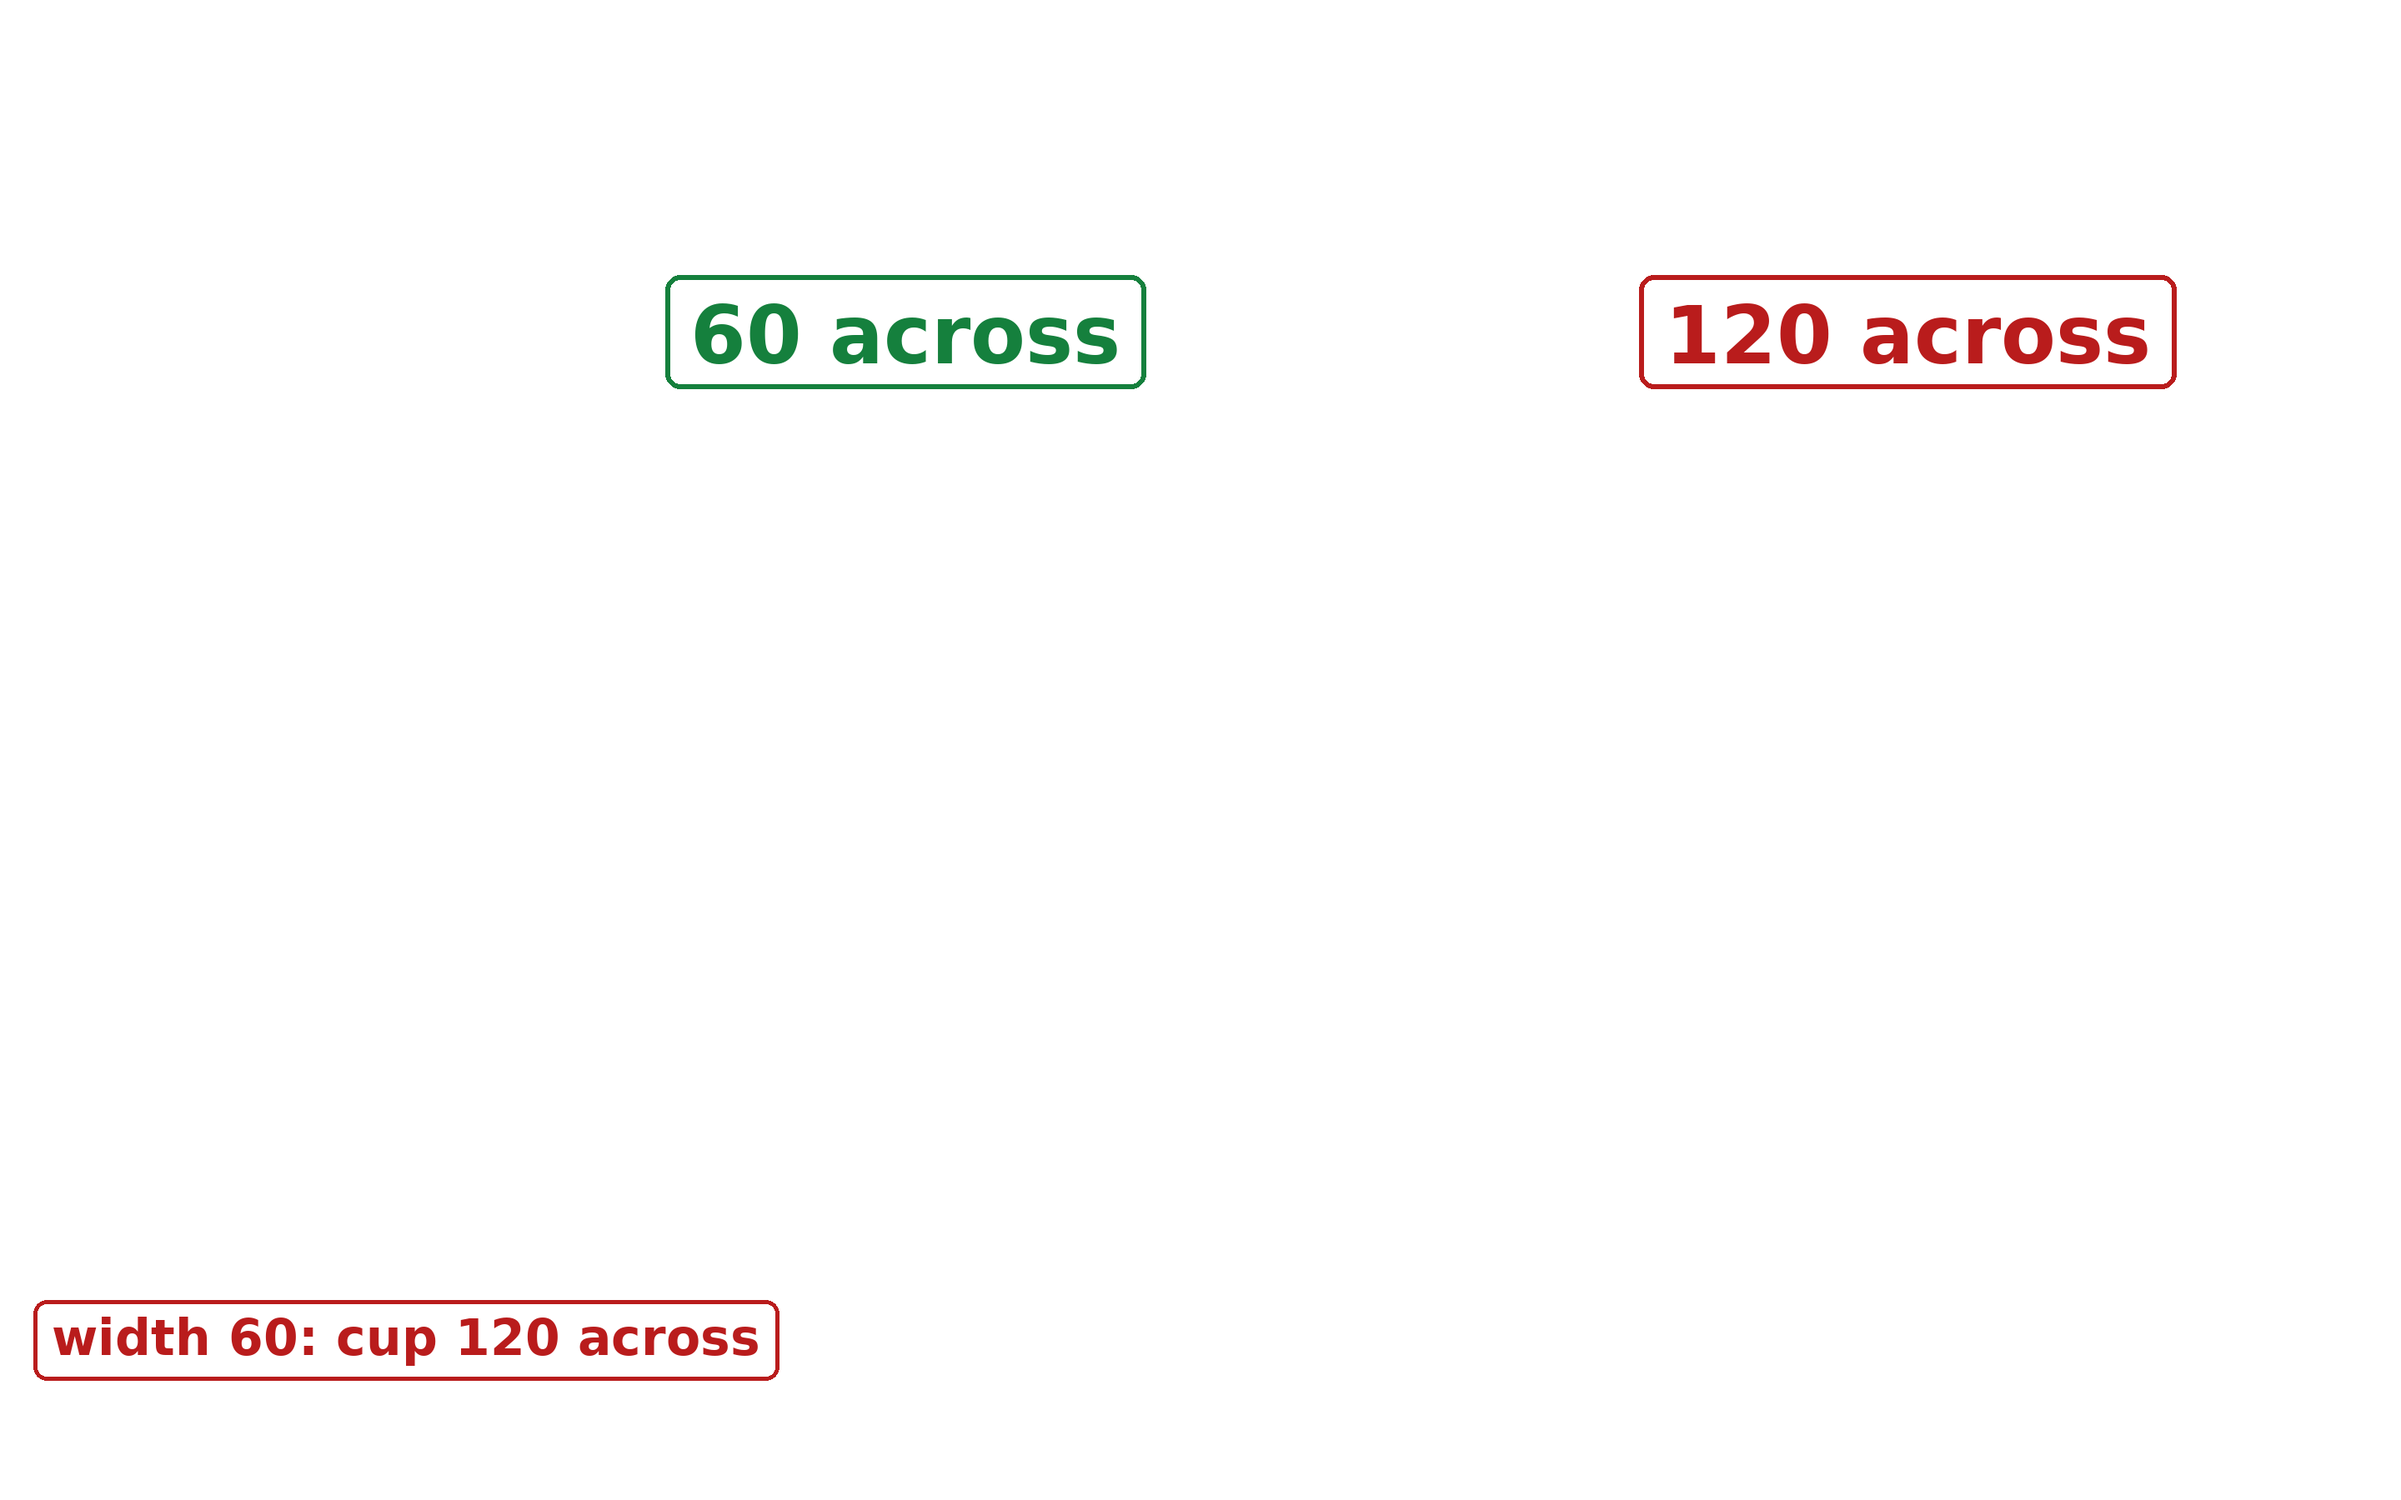
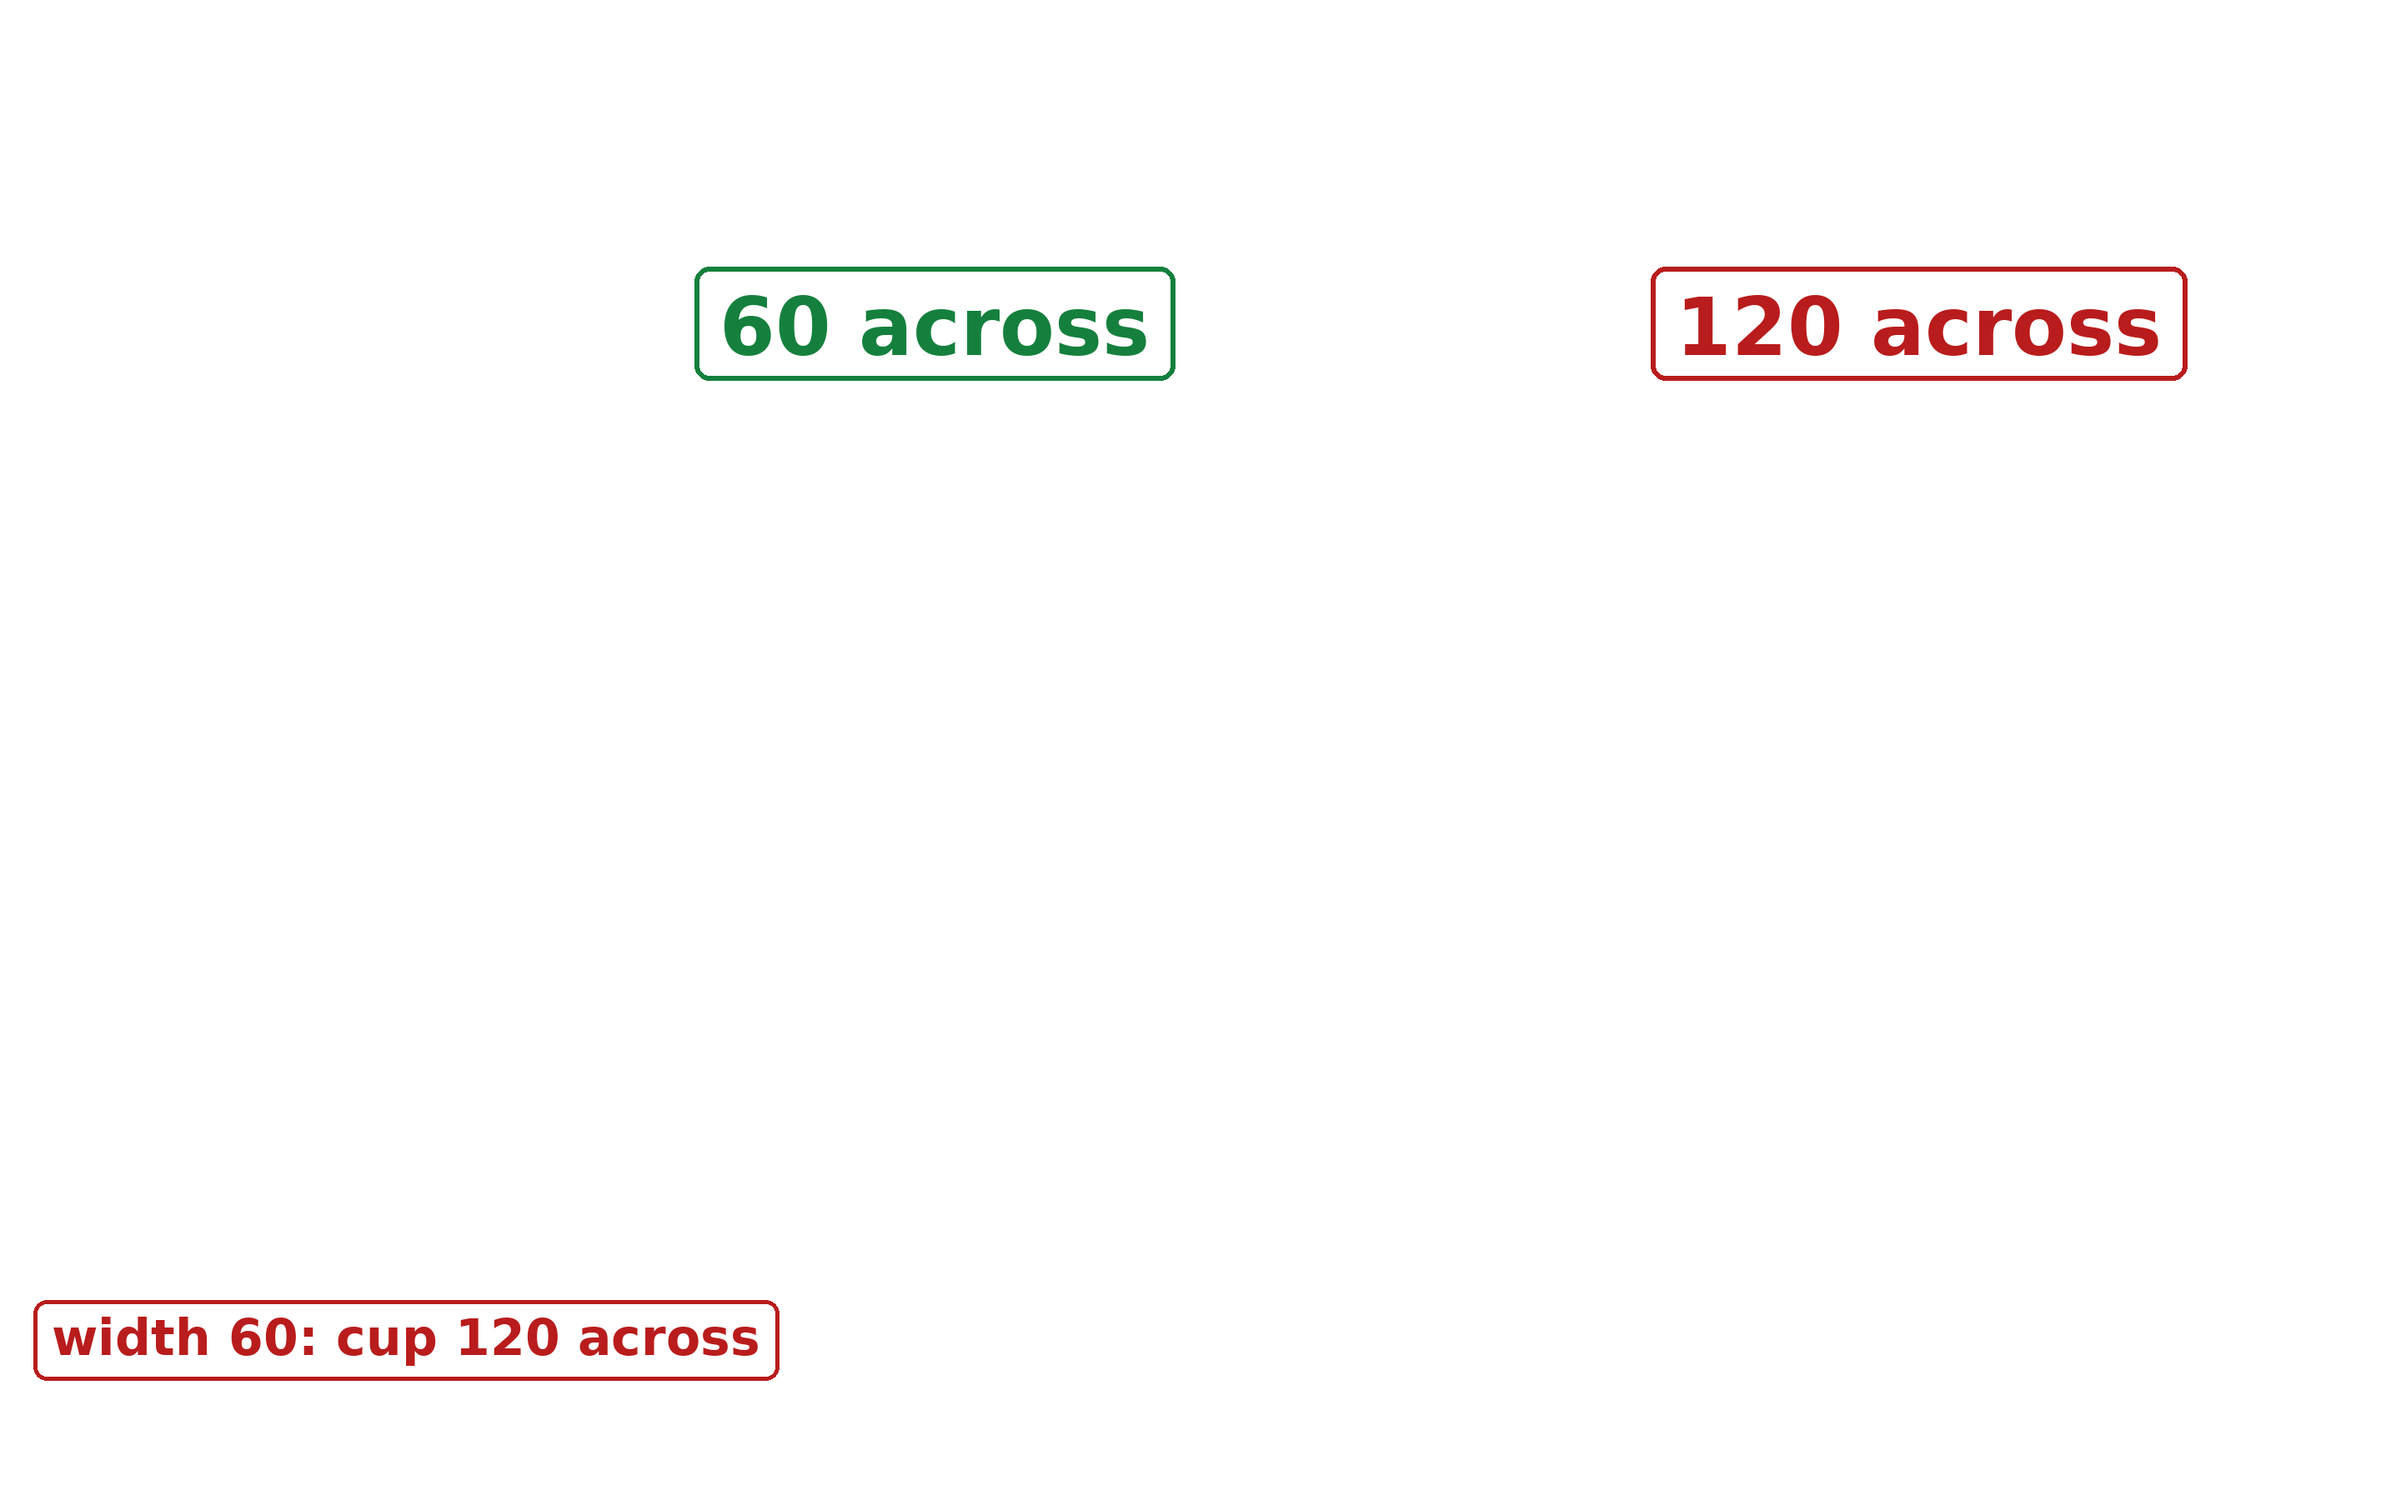
fc18: Claude reply excerpt strips st-A1a..c / st-B1a..c (2.2x, 3 builds, frames A1 46.0 / B1 59.0 inside the reply windows, above the status rows); ov-tile-0 labels centred on the re-filmed take S cups; tests for the run-1 and 60.00 / inside 56 panels (draw test 7/7)
Claude-Session: https://claude.ai/code/session_01BKaTyjjjzT84TFwxoSwewu

Changed region(s): [[0.6875, 0.1556, 0.9062, 0.28], [0.2812, 0.1556, 0.5, 0.28]]

diff --git a/video/draw_fc18.py b/video/draw_fc18.py
@@ -7,12 +7,14 @@ RGBA 1080 x 1920 (32 columns); no percent sign, no angle brackets, never the run
 NUMBERS.json's (out/fc18) or the script's arithmetic.
 Geometry (source px 2880 x 1800, gridded stills 22 Nov, scratchpad fc18g):
   T/measure-trap120: cup x 1216-2144, y 464-1504; Measurement panel x 2190-2865, Mode y 704, Result y 746.
-  S/side-by-side (the tile): left window "fixed" (60 cup) x 480-1680, cup x 778-1395, y 490-1514; right window "name"
-  (120 cup) x 1696-2864, cup x 1904-2672, y 570-1434; the stale "Start Part" task panel x 2188-2871, y 593-709 (over
-  the 120 cup's rim: see HANDOVER-fc18-render2.md).
+  S/side-by-side (the tile, re-filmed bef6515: the Tasks dock hidden, no Start Part panel): left window "fixed" (60
+  cup) x 480-1680, cup x 812-1430, y 475-1500; right window "name" (120 cup) x 1696-2864, cup x 1918-2685, y 563-1425.
   R/params: rows y 410 / 464 / 518, column A x 592-768, B x 768-944.
   F/expr-half: Expression Editor x 1776-2400, y 1370-1664 ("Result 30.00" y 1594); the width label y ~1392.
   Panels anchored lower left at (40, 1690) (the property area, left of the cup).
+  Reply strips (st-A1a..c, st-B1a..c, RGB 2880 x 1800): runs/{A1,B1}/reply.png = screen.mp4 at REPLY_AT (A1 46.0 inside
+  the reply window 42.0-50.7, B1 59.0 inside 55.0-63.3, never B1's 51-55 scroll); line boxes by tesseract tsv (22 Nov),
+  row pitch 49 px, monospace 24.6 px from x 60; the status rows (y 1451 down) are outside every strip.
 Run in the draw image:  MSYS_NO_PATHCONV=1 docker run --rm -v "<edu-visualization>:/ev" -w /ev/freecad-course-lab \
   cad3way-draw:1 python3 video/draw_fc18.py
 Test: tests/test_draw_fc18.py"""
@@ -34,17 +36,23 @@ f17.TAKES = TAKES
 NUM = json.load(open(os.path.join(TAKES, 'NUMBERS.json'), encoding='utf-8'))
 RUNS = NUM['runs']
 f17.RUNS = RUNS
-W, H = b.W, b.H
+W, H, SW, SH = b.W, b.H, b.SW, b.SH
 INK, GREY, WHITE, BLUE, ORANGE, RED, GREEN = f17.INK, f17.GREY, f17.WHITE, f17.BLUE, f17.ORANGE, f17.RED, f17.GREEN
 PROBLEMS, LOG, CUR = f17.PROBLEMS, f17.LOG, f17.CUR
 text, save, canvas, source, header = f17.text, f17.save, f17.canvas, f17.source, f17.header
 PANEL_LL = f17.PANEL_LL
+DRAWN = f17.DRAWN
 CHIP_AT = (40, 1350)                    # chips lower left, above the panels' zone
 CHIP_R = (2150, 820)                    # chips under the Measurement panel (x 2190-2865, y 590-770), right of the cup
 PROFILE = [(0, 0), (30, 0), (30, 80), (28, 80), (28, 2), (0, 2)]     # the half-section (x = radius, z), mm
 CUPGREY = (150, 156, 168)
 HEAD = ('MY REVOLVED CUP CAME', 'OUT TWICE AS WIDE')
 WORDS = []
+TILE_CUPS = {'60': (812, 1430, 475, 1500), '120': (1918, 2685, 563, 1425)}   # re-filmed take S cups, source px
+REPLY_AT = {'A1': 46.0, 'B1': 59.0}
+STRIPS = {}
+GHOST = (200, 205, 214)
+STRIP_X, STRIP_K = 170, 2.2
 
 
 def r(v):
@@ -110,10 +118,11 @@ def big_label(d, cx, y, s, col, px=96):
 
 def tile_labels():
     """F0 frame 0 (St, the S tile): '60 across' over the left cup, '120 across' over the right one; the right label's
-    stale 'Start Part' panel (x 2188-2871, y 593-709, over the 120 rim) is NOT masked here: painting it out leaves a hole in the rim; re-film take S without it (HANDOVER-fc18-render2.md)."""
+    centres from the re-filmed take S (TILE_CUPS), each above its rim."""
     im, d = source()
-    big_label(d, 1086, 330, '60 across', GREEN)
-    big_label(d, 2288, 330, '120 across', RED)
+    for key, col in (('60', GREEN), ('120', RED)):
+        x0, x1, y0, _ = TILE_CUPS[key]
+        f17.DRAWN[f'ov-tile-0.png:{key}'] = big_label(d, (x0 + x1) / 2, 320, f'{key} across', col)
     f17.src_chip(d, (40, 1560), 'width 60: cup 120 across', RED, px=60)
     save(im, 'ov-tile-0.png')
 
@@ -148,6 +157,67 @@ def panels():
     f17.code_panel('ov-in-F8.png', ['60.00 across · inside 56'], PANEL_LL)
 
 
+# --- F11 / F12: Claude's replies as excerpt strips (whole terminal first in the footage, then these) ----------------
+def strip(im, d, name, src, box, at, marks):
+    """Paste src.crop(box) at STRIP_K on the still, a ghost frame round it, then each mark (('ring' | 'box', x0, y0,
+    x1, y1) in source px) in orange; records (box, k, at) in STRIPS[name]; returns the bottom y."""
+    k = STRIP_K
+    c = src.crop(box)
+    c = c.resize((round(c.width * k), round(c.height * k)), Image.LANCZOS)
+    im.paste(c, at)
+    d.rectangle((at[0] - 3, at[1] - 3, at[0] + c.width + 2, at[1] + c.height + 2), outline=GHOST, width=3)
+    STRIPS.setdefault(name, []).append((box, k, at))
+    if box[3] >= 1440 or at[0] + c.width > SW - 40 or at[1] + c.height > SH - 40:
+        PROBLEMS.append(f'{name}: strip {box} off the frame / in the status rows')
+    for kind, x0, y0, x1, y1 in marks:
+        a = (at[0] + (x0 - box[0]) * k, at[1] + (y0 - box[1]) * k)
+        z = (at[0] + (x1 - box[0]) * k, at[1] + (y1 - box[1]) * k)
+        if kind == 'ring':
+            d.rounded_rectangle((a[0] - 16, a[1] - 10, z[0] + 16, z[1] + 10), radius=36, outline=ORANGE, width=10)
+        else:
+            d.rectangle((a[0] - 12, a[1] - 8, z[0] + 12, z[1] + 8), outline=ORANGE, width=9)
+    return at[1] + c.height
+
+
+# (crop box, marks) per strip, in build order; source px of runs/<run>/reply.png
+REPLY = {
+    'A1': [[((40, 612, 1150, 662), [('ring', 104, 616, 972, 661)])],                    # outer_radius = d / 2
+           [((40, 853, 1150, 950), [('box', 255, 860, 1128, 897), ('box', 103, 910, 252, 946)]),   # 60 mm across
+            ((40, 1052, 1150, 1244), [('box', 500, 1056, 926, 1100), ('box', 103, 1105, 1103, 1150),
+                                      ('box', 103, 1154, 230, 1198), ('box', 103, 1203, 545, 1240)])]],  # 80, back to 60
+    'B1': [[((40, 72, 1150, 126), [('ring', 104, 77, 778, 123)]),                          # radius = d / 2
+            ((40, 562, 1150, 664), [('box', 870, 567, 1122, 610), ('box', 103, 615, 774, 660)])],   # radius 30 = 60.0
+           [((40, 856, 1150, 1006), [('box', 103, 909, 1122, 1003)])]],                    # 70 -> 70.0, back to 60
+}
+
+
+def still_reply(run, step):
+    """Run one / two's reply in three builds on the voice: a "It halved the diameter, in a size it named outer radius" /
+    "radius thirty, so sixty across", b "read sixty across, tried eighty, and put sixty back" / "At seventy it read
+    seventy, then put sixty back", c + our panel ("By code, it holds at all three sizes we tried")."""
+    CUR.clear()
+    name = f'st-{run}{"abc"[step - 1]}.png'
+    STRIPS.pop(name, None)
+    src = Image.open(os.path.join(TAKES, 'runs', run, 'reply.png')).convert('RGB')
+    im = Image.new('RGB', (SW, SH), WHITE)
+    d = ImageDraw.Draw(im)
+    cost = RUNS[run]['cost_usd']
+    f17.chip(d, (STRIP_X, 180), ('not asked to check' if run == 'A1' else 'asked to check') + f' · ${cost:.2f}', 64,
+             BLUE, BLUE, frame=(SW, SH))
+    text(d, (STRIP_X, 300), 'its reply (excerpts)', 48, GREY, path=b.R, frame=(SW, SH))
+    y = 380
+    for build in REPLY[run][:min(step, 2)]:
+        for box, marks in build:
+            y = strip(im, d, name, src, box, (STRIP_X, y), marks) + 40
+    if step >= 3:
+        f10_box = f17.f10.code_box
+        lines = [f'run {1 if run == "A1" else 2} file: 60, 80, 45 across', 'width = diameter / 2']
+        pb = f10_box(d, STRIP_X, SH - 100, lines, 'checked by code', f17.PX, 0.8, 'lb')
+        if pb[1] < y - 20:
+            PROBLEMS.append(f'{name}: panel {pb} over the strips (bottom {y})')
+    save(im, name)
+
+
 RECAP = ['Revolve spins a half-section', 'width = radius = diameter / 2']
 TURN = ['Your turn: a vase 45 across.', 'What width goes in the sketch?', '45 in the width: how wide?']
 SUB = [['Coming up: Claude Code on a', 'local model, Gemma 4 via Ollama'],
@@ -180,6 +250,9 @@ def main():
     tile_labels()
     chips()
     panels()
+    for run in ('A1', 'B1'):
+        for step in (1, 2, 3):
+            still_reply(run, step)
     f17.ov_lines('rc-1.png', RECAP, 2, (20, 1400, 1300, 1690), one=True)
     f17.ov_lines('yt-1.png', TURN, 2, (20, 1230, 1300, 1690), one=True)
     f17.ov_lines('yt-2.png', TURN, 3, (20, 1230, 1300, 1690), one=True)

diff --git a/tests/test_draw_fc18.py b/tests/test_draw_fc18.py
@@ -14,9 +14,10 @@ import draw_fc18 as d  # noqa: E402
 
 FULL = ['card-half-1.png', 'card-half-2.png', 'card-end.png']
 SRC = ['ov-tile-0.png', 'ov-in-F1.png', 'ov-in-F7.png', 'ov-in-F7-1.png', 'ov-in-F7-2.png', 'ov-in-K.png',
-       'ov-in-C.png', 'ov-in-B1.png', 'ov-chip-r120.png', 'ov-chip-r60.png', 'ov-chip-r80.png', 'ov-chip-nodia.png',
+       'ov-in-C.png', 'ov-in-B1.png', 'ov-in-A1.png', 'ov-in-F8.png', 'ov-chip-r120.png', 'ov-chip-r60.png', 'ov-chip-r80.png', 'ov-chip-nodia.png',
        'ov-chip-plane.png', 'ov-chip-far.png', 'ov-chip-cc-version.png', 'ov-chip-run-A1.png', 'ov-chip-run-B1.png',
        'rc-1.png', 'yt-1.png', 'yt-2.png', 'sub-1.png', 'sub-2.png']
+STILLS = ['st-A1a.png', 'st-A1b.png', 'st-A1c.png', 'st-B1a.png', 'st-B1b.png', 'st-B1c.png']
 SHORT = ['short-head.png', 'short-q.png', 'short-series.png', 'short-tile.png']
 
 
@@ -33,6 +34,9 @@ def test_files_and_sizes(drawn):
         assert Image.open(os.path.join(d.OUT, f)).size == (2880, 1800), f
     for f in SHORT:
         assert Image.open(os.path.join(d.OUT, f)).size == (1080, 1920), f
+    for f in STILLS:
+        im = Image.open(os.path.join(d.OUT, f))
+        assert im.size == (2880, 1800) and im.mode == 'RGB', f
 
 
 def test_no_problems(drawn):
@@ -56,3 +60,44 @@ def test_numbers_are_the_labs(drawn):
     assert n['q5']['fixed_reopened_80']['outside_x'] == 80.0 and n['q5']['name_80']['outside_x'] == 160.0
     assert n['q9']['name_40']['outside_x'] == 80.0 and n['q9']['fixed_45']['outside_x'] == 45.0 and n['q9']['name_45']['outside_x'] == 90.0
     assert n['runs']['A1']['pass'] and n['runs']['B1']['pass']
+
+
+def texts(name):
+    return [t for t, _ in d.LOG[name]]
+
+
+def test_new_code_panels(drawn):
+    """lab 29f31b3: run one's file panel (Claude frames, FreeCAD side) and the fix's 60.00 / inside 56 panel."""
+    assert texts('ov-in-A1.png') == ['checked by code', 'run 1 file: 60, 80, 45 across', 'width = diameter / 2']
+    assert texts('ov-in-B1.png') == ['checked by code', 'run 2 file: 60, 80, 45 across', 'width = diameter / 2']
+    assert texts('ov-in-F8.png') == ['checked by code', '60.00 across · inside 56']
+    assert d.NUM['q4_fix']['inside'] == 56.0
+
+
+def test_reply_strips(drawn):
+    """Claude's long replies as excerpt strips, three builds each; frames inside the reply windows (A1 42.0-50.7,
+    B1 55.0-63.3, never B1's 51-55 scroll); every strip above the status rows (y 1451) and scaled 2x+ (phone)."""
+    assert 42.0 <= d.REPLY_AT['A1'] <= 50.7 and 55.0 <= d.REPLY_AT['B1'] <= 63.3
+    for run in ('A1', 'B1'):
+        a, b_, c = (texts(f'st-{run}{x}.png') for x in 'abc')
+        chip = 'not asked to check · $0.11' if run == 'A1' else 'asked to check · $0.08'
+        assert chip in a and chip in c
+        assert 'checked by code' in c and 'checked by code' not in b_ and 'checked by code' not in a
+        assert len(d.STRIPS[f'st-{run}a.png']) < len(d.STRIPS[f'st-{run}b.png'])   # b adds strips (builds)
+        for name in (f'st-{run}{x}.png' for x in 'abc'):
+            for box, k, at in d.STRIPS[name]:
+                assert box[3] < 1440, (name, box)                  # never the status rows
+                assert k >= 2.0, (name, k)
+                w, h = (box[2] - box[0]) * k, (box[3] - box[1]) * k
+                assert at[0] >= 40 and at[0] + w <= 2840 and at[1] >= 160 and at[1] + h <= 1760, (name, box)
+    assert 'its reply (excerpts)' in texts('st-A1a.png')
+
+
+def test_tile_labels_on_the_refilmed_cups(drawn):
+    """take S re-filmed (bef6515): left "fixed" cup x 812-1430, y 475-1500; right "name" cup x 1918-2685, y 563-1425.
+    Each label centred over its cup and above its rim."""
+    for key, (x0, x1, y0, _y1) in d.TILE_CUPS.items():
+        box = d.DRAWN[f'ov-tile-0.png:{key}']
+        assert abs((box[0] + box[2]) / 2 - (x0 + x1) / 2) <= 20, key
+        assert box[3] <= y0, key
+    assert texts('ov-tile-0.png')[:2] == ['60 across', '120 across']
